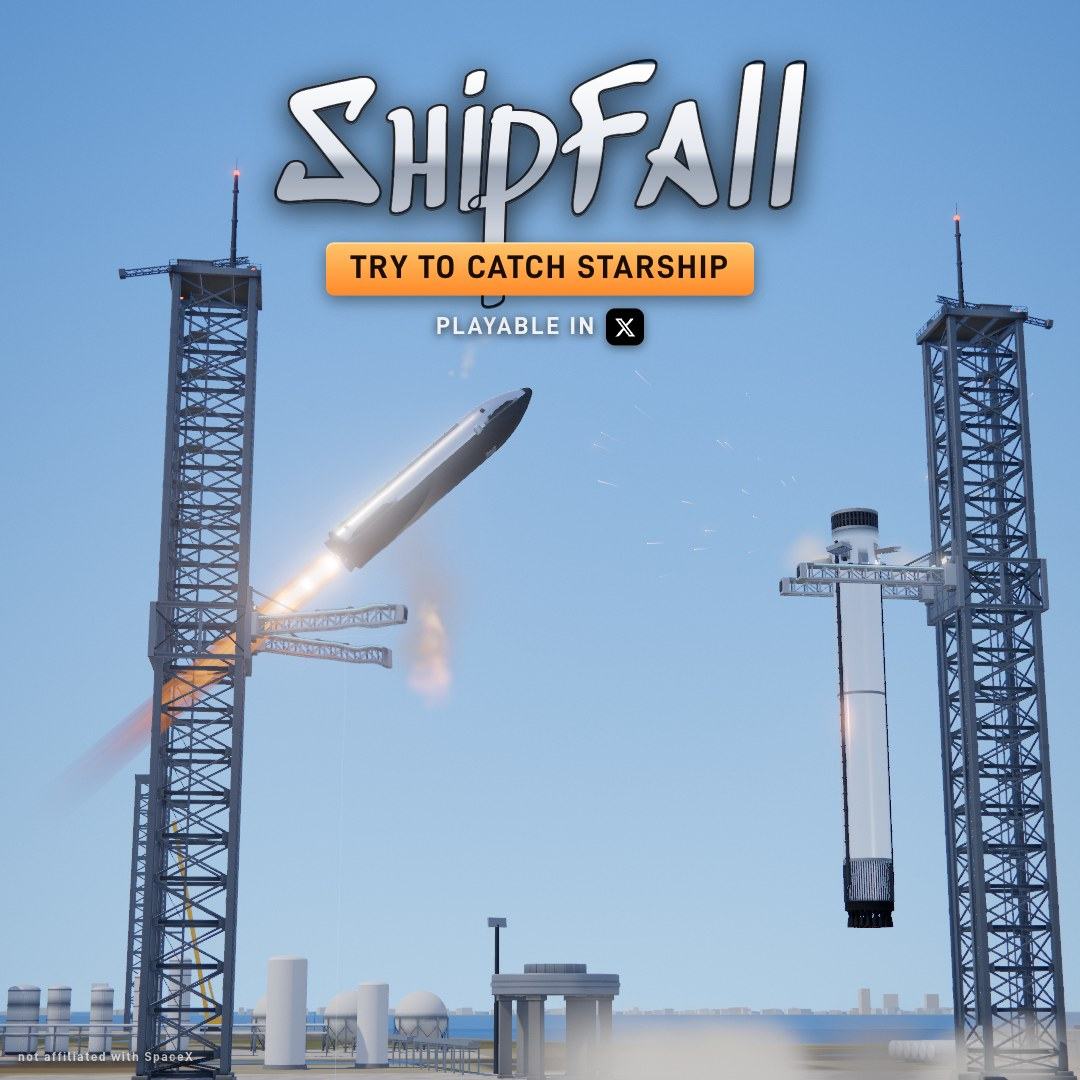
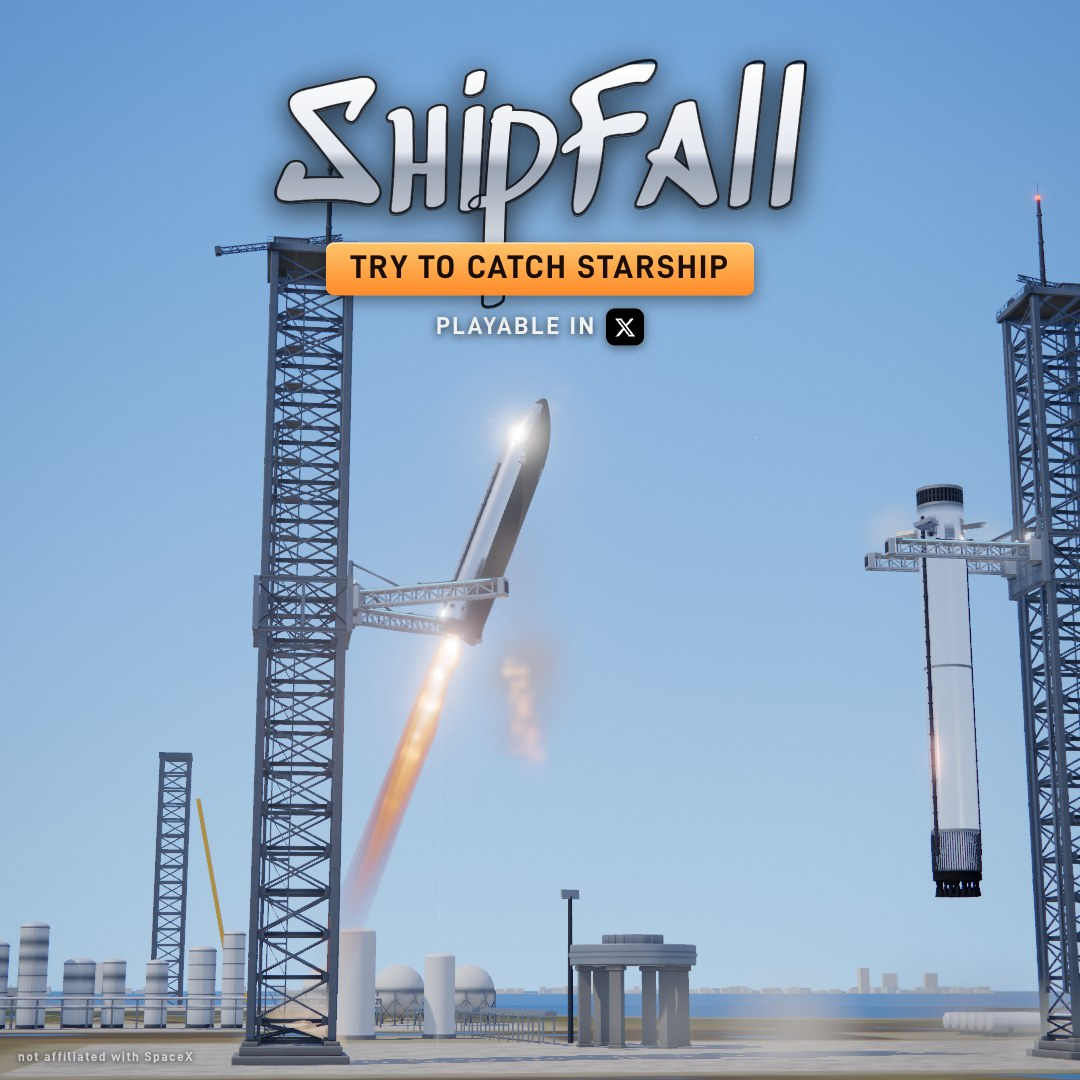
Ship always enters from the far side, bigger booster flame, more upright card ship, new card text

Changed region(s): [[0.0, 0.1528, 1.0, 1.0]]

diff --git a/src/sim.js b/src/sim.js
@@ -146,12 +146,13 @@ export class Game {
     return Math.min(this.round - 1, 9);
   }
 
-  makeBoosterParams(towerIdx, slot) {
+  makeBoosterParams(towerIdx, slot, kind = 'booster') {
     const r = this.rng;
     const d = this.difficulty();
     const tw = this.towers[towerIdx];
     const toward = -tw.side;
-    const towardTower = r.chance(0.3);
+    // The ship always comes in from the side away from its tower (the draw is kept so the random stream doesn't shift).
+    const towardTower = r.chance(0.3) && kind !== 'ship';
     const p = {
       vy0: (44 + d * 3.5) * PX_PER_M + r.range(-8, 8),
       // The hover speed cap and length floor keep every round's catch window at 1.2 s or more without steering.
@@ -190,8 +191,8 @@ export class Game {
     this.roundDouble = this.doubleUnlocked && this.towers.length > 1;
     const pick = this.target === 'random' ? (this.picks.chance(0.5) ? 'ship' : 'booster') : this.target;
     const kind = this.roundDouble ? 'booster' : pick;
-    this.params = [{ ...this.makeBoosterParams(0, 0), kind }];
-    if (this.roundDouble) this.params.push({ ...this.makeBoosterParams(1, 1), kind: 'ship' });
+    this.params = [{ ...this.makeBoosterParams(0, 0, kind), kind }];
+    if (this.roundDouble) this.params.push({ ...this.makeBoosterParams(1, 1, 'ship'), kind: 'ship' });
     this.wind = this.makeWind();
     this.roundT = 0;
     this.roundCatches = 0;

diff --git a/src/three/effects.js b/src/three/effects.js
@@ -72,7 +72,8 @@ const FLAME_LIT = new THREE.Color(1.5, 1.05, 0.7);
  * Plume of one vehicle. update() takes how far the exhaust can reach (alt) and the engine exit's height above the
  * ground, which raises steam or dust once the blast gets there; setPalette() takes the map's fx colours.
  */
-export function createPlume() {
+/** boost: how much longer and wider the flame is than the base plume (the booster's 33 engines burn bigger). */
+export function createPlume({ boost = 1 } = {}) {
   const group = new THREE.Group();
   group.position.y = ENGINE_Y;
   const outer = plumeLayer(5.2, 7.5, [2.4, 0.7, 0.12], [0.9, 0.22, 0.04], { pow: 0.7, cover: 1.6 });
@@ -99,8 +100,8 @@ export function createPlume() {
       const on = throttle > 0.02;
       group.visible = on;
       if (!on) return;
-      const len = 14 + 54 * Math.min(1, throttle * 1.2);
-      const width = 0.75 + 0.55 * Math.min(1, throttle * 1.4);
+      const len = (14 + 54 * Math.min(1, throttle * 1.2)) * boost;
+      const width = (0.75 + 0.55 * Math.min(1, throttle * 1.4)) * Math.sqrt(boost);
       const amp = Math.min(1, 0.5 + throttle * 1.2);
       for (const L of layers) {
         L.mesh.scale.set(width, Math.min(len * L.len, alt + 6), width);

diff --git a/src/three/view.js b/src/three/view.js
@@ -70,7 +70,7 @@ export class View {
     this.shipMats = createShipMaterials(mats);
     this.pool = SLOT_KINDS.map((kind) => {
       const b = kind === 'ship' ? createShip(this.shipMats) : createBooster(mats);
-      const plume = kind === 'ship' ? createShipPlume() : createPlume();
+      const plume = kind === 'ship' ? createShipPlume() : createPlume({ boost: 1.45 });
       b.root.add(plume.group);
       b.root.visible = false;
       const light = new THREE.PointLight(0xff8f45, 0, 0, 2);
